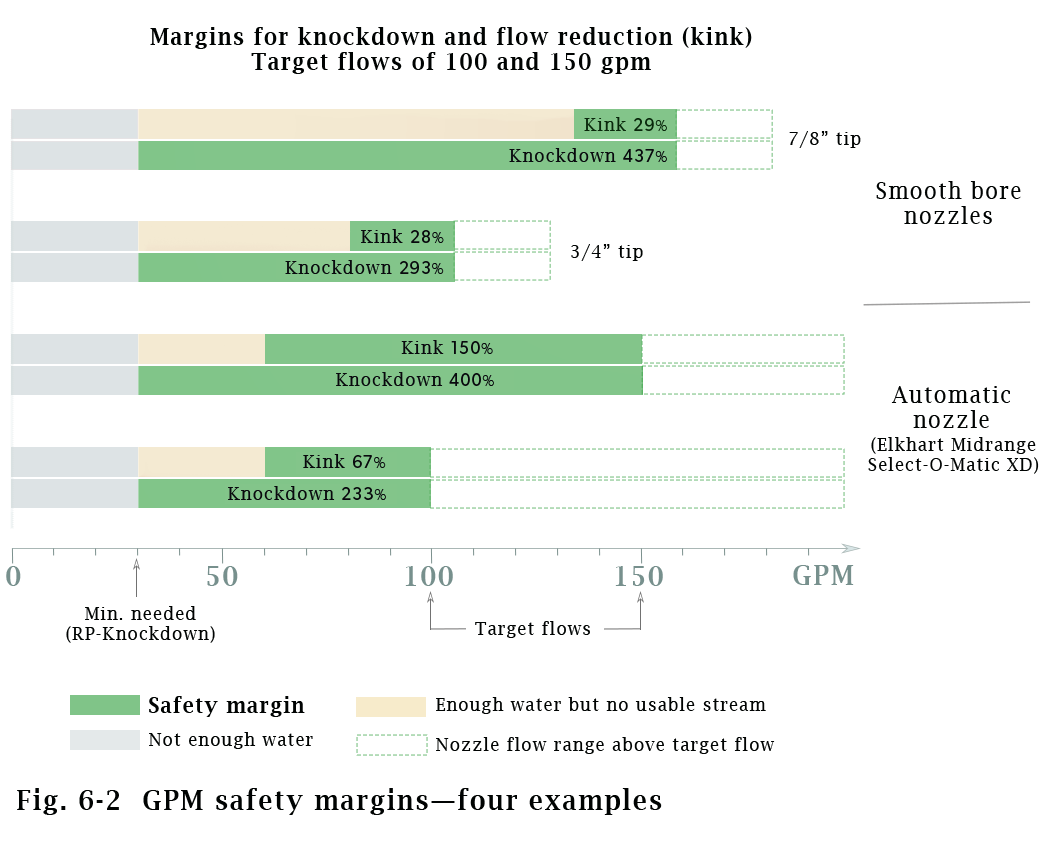
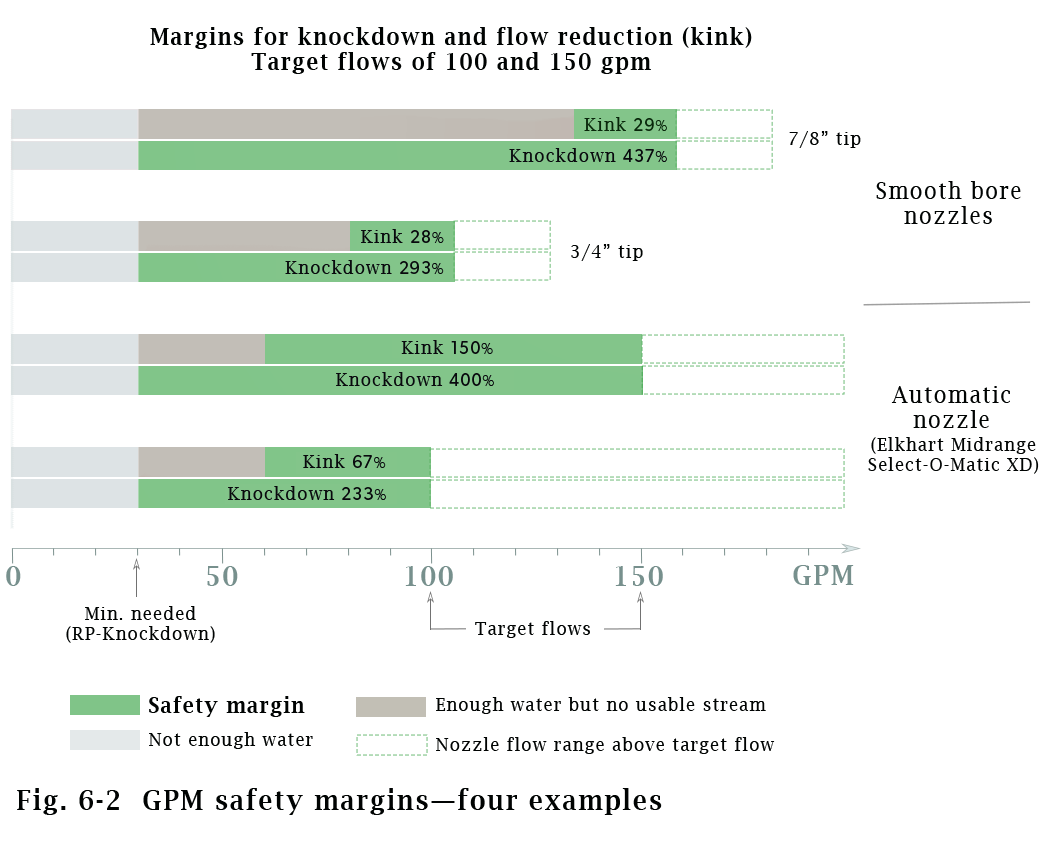
Changed margin graphic to monochrome

diff --git a/AutomaticNozzles.html b/AutomaticNozzles.html
@@ -79,7 +79,7 @@
 <p>Wide operating ranges can help top and bottom.</p>	
 	
 <p>The bottom of a nozzle's range is the minimum flow needed to produce a 
-		<span class = "tooltip">usable stream.<span class="tooltipcontent"><span class="tooltiptext" >A usable stream is one that has enough reach to be useful but not too much reaction force.</span></span></span>
+		<span class = "tooltip">usable stream.<span class="tooltipcontent"><span class="tooltiptext" >A usable stream is one that has enough reach but not too much reaction force.</span></span></span>
 	&nbsp;  If a kink reduces the flow below the minimum, the line may be useless.
 </p>     
     
